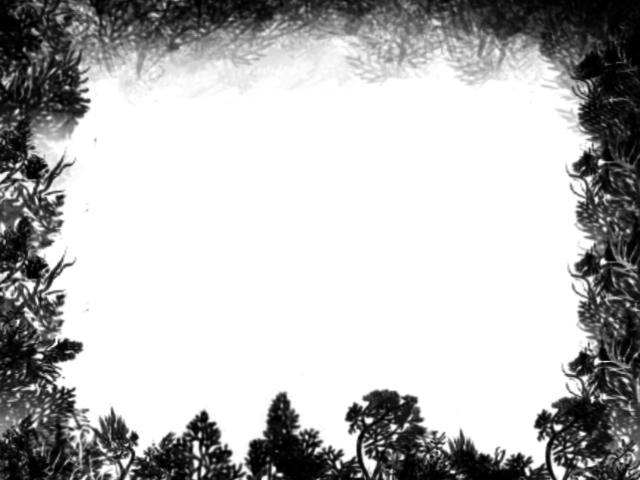
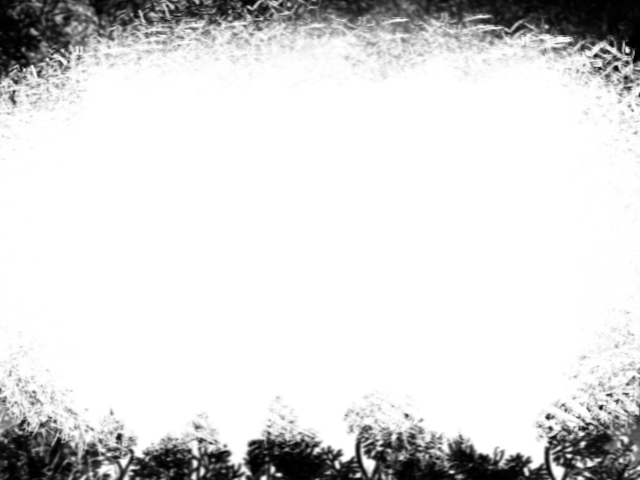
added frame again

Changed region(s): [[0.0, 0.0, 1.0, 1.0]]

diff --git a/src/core/player/Player.java b/src/core/player/Player.java
@@ -30,7 +30,7 @@ public class Player {
 
 	private String displayHealth;
 	private BitmapFont myBitmap;
-	private final int TOTAL_HEALTH = 2;
+	private final int TOTAL_HEALTH = 5;
 	private boolean isPlayerHit;
 
 	private long startTime; // for dashing

diff --git a/src/core/hud/Hud.java b/src/core/hud/Hud.java
@@ -38,7 +38,7 @@ public class Hud {
 		
 		sb.setProjectionMatrix(hudCam.combined);
 		sb.begin();
-		//sb.draw(Game.res.getTexture("frame"), 0, 0);
+		sb.draw(Game.res.getTexture("frame"), 0, 0);
 		hp.render();
 		sb.end();
 		

diff --git a/src/core/hud/HealthBar.java b/src/core/hud/HealthBar.java
@@ -61,6 +61,8 @@ public class HealthBar {
 			else {
 				startTime = System.currentTimeMillis();
 			}
+		}else{
+			myBitmap.setColor(Color.BLUE);
 		}
 		
 		myBitmap.draw(batch, myHealth, 25, 100);
